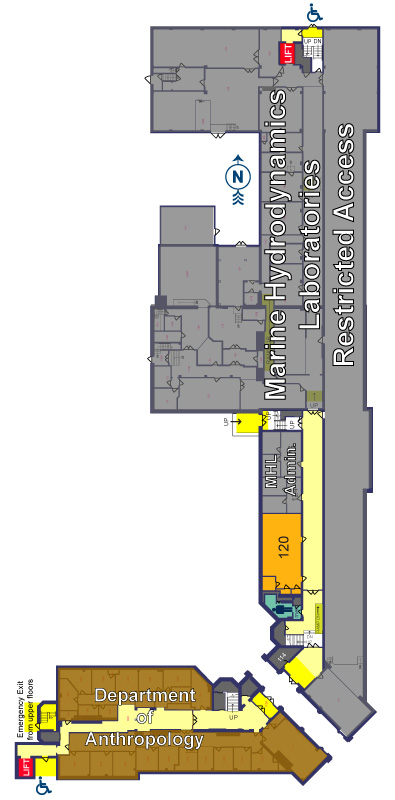
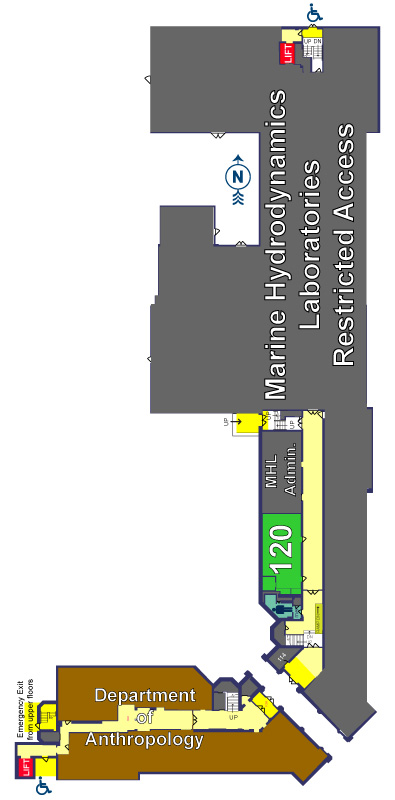
UPDATE: maps

Changed region(s): [[0.3646, 0.0312, 0.9722, 0.9375], [0.1519, 0.8125, 0.8203, 0.9688]]

diff --git a/public/maps/bsb1.html b/public/maps/bsb1.html
@@ -1,0 +1,198 @@
+<!DOCTYPE html>
+<head>
+<title>Biological Sciences Bldg</title>
+<meta http-equiv="Content-Type" content="text/html; charset=utf-8" />
+<meta name="viewport" content="width=device-width, initial-scale=1.0">
+
+<style>
+
+body{
+font-family:Arial, Helvetica, sans-serif;
+background-color:ivory;
+}
+
+#nav{
+position:absolute;
+right:0px;
+margin-top:6%;
+z-index:5;
+text-align:center;
+background-color: rgba(255,255,255,0.8);
+width:45%;
+height:auto;
+display:none;
+border: thin solid black;
+}
+
+button{
+ position:absolute;
+ right:0;
+ top:0;
+ margin:0% 0% 1% 0%;
+ font-size:large;
+}
+
+h1{
+ position:relative;
+ display:inline-block;
+ left:0;
+ top:0;
+ margin: 0% 0% 1% 0%;
+ font-size:x-large;
+ width:45%;
+}
+
+.text{
+ display:inline-block;
+ font-size:x-large;
+ font-weight:bold;
+ position:relative;
+ text-align:center;
+ padding-bottom:1%;
+}
+
+a:link{text-decoration:none;}
+a:hover{text-decoration:underline;}
+
+a.rm{position:absolute;z-index:1;}
+a.rm:focus{
+ opacity:1;
+ border: double thick cyan;
+}
+a.rm:hover{
+ opacity:1;
+ border: double thick cyan;
+}
+
+.page{
+  max-width:800px;
+  height:auto;
+  margin:auto;
+  position:relative;
+}
+
+#scrollbox{
+  position:relative;
+  width:100%;
+  max-height:800px;
+  overflow:auto;
+  border:solid black;
+  margin:auto;
+}
+#fpbox{
+  position:relative;
+  overflow:visible;
+  width:200%;
+}
+#fp{
+  position:relative;
+  z-index:0;
+  width:100%;
+}
+
+@media only screen and (max-width:800px) {
+  h1{font-size:large;}
+  .text{font-size:large;}
+}
+@media only screen and (max-height:1000px) {
+  #fpbox{width:180%;}
+}
+@media only screen and (max-height:900px) {
+  #scrollbox{height:700px;}
+  #fpbox{width:150%;}
+}
+@media only screen and (max-height:800px) {
+  #scrollbox{height:600px;}
+  #fpbox{width:120%;}
+}
+
+@media only screen and (max-width:600px){
+  h1{font-size:small;}
+  .text{font-size:small;}
+  button{font-size:small;}
+  @media only screen and (orientation:portrait){
+     #scrollbox{height:400px;}
+     #fpbox{width:250%;}
+  }
+  @media only screen and (orientation:landscape){
+    #scrollbox{height:250px;}
+    #fpbox{width:100%;}
+  }
+}
+
+
+
+
+/* padding and positions for all the links normal screen size */
+
+
+a.bsb1060{padding:10% 12%; top:24%; left:4.5%;}
+a.bsb1100{padding:5%; top:35.5%; left:34%;}
+a.bsb1110{padding:5%; top:54%; left:34%;}
+
+
+</style>
+</head>
+
+<body>
+
+<div class="page">
+
+<h1>Biological Sciences Building</h1>
+<button type="button" id="navButt" tabindex="4" alt="open navigation links">Navigate Floor Plans</button>
+
+<!--Navigation hidden until button is clicked javascript below body-->
+<div id="nav">
+<p class="text">
+There are no other floors with classrooms
+</p>
+<p class="text">
+<a href="index.html" tabindex="5" alt="to the central campus map" title="to the central campus map">
+To Central Campus Map</a>
+</p>
+<p class="text">
+<a href="/" tabindex="6" alt="to the MClassrooms homepage" title="to the MClassrooms homepage">
+To MClassrooms Homepage</a>
+</p>
+</div>
+
+<div id="scrollbox">
+
+<!-- floor plan -->
+
+<div id="fpbox">
+
+<img id="fp" src="bsb1.jpg" alt="a drawing of the biological sciences building" />
+
+<!-- links to classroom data -->
+
+<a class="rm bsb1060" href="../classrooms/BSB1060" tabindex="1" alt="to the information for room one zero six zero" title="to room 1060 information">
+</a>
+
+<!-- removed class labs from MClassrooms ----
+<a class="rm bsb1100" href="../classrooms/BSB1100" tabindex="2" alt="to the information for room one one zero zero" title="to room 1100 information">
+</a>
+<a class="rm bsb1110" href="../classrooms/BSB1110" tabindex="3" alt="to the information for room one one one zero" title="to room 1110 information">
+</a>
+-->
+
+</div>
+</div>
+
+</div>
+
+</body>
+
+<script>
+
+document.getElementById("navButt").onclick = function() {showNav()};
+
+function showNav(){
+   if (document.getElementById("nav").style.display === "block"){
+      document.getElementById("nav").style.display = "none";
+   }else{
+   document.getElementById("nav").style.display = "block";
+   }
+}
+</script>
+</html>

diff --git a/public/maps/wh1.html b/public/maps/wh1.html
@@ -11,12 +11,13 @@ a:hover{text-decoration:underline}
 <body>
 <img src="wh1.jpg" alt="Image of the first floor of West Hall" border="0" usemap="#wh1" style="margin:5px; z-index:-1"/>
 <p style="left:40px; top:460px;"><b>First Floor West Hall</b></p>
-<a style="font-family:Verdana, Geneva, Sans-serif; position:absolute; left:50px; top:510px;" href="wh2.html" title="link to 2nd floor" alt="link to 2nd floor">link to 2nd floor</a>
-<a style="font-family:Verdana, Geneva, Sans-serif; position:absolute; left:50px; top:540px;" href="wh3.html" title="link to 3rd floor" alt="link to 3rd floor">link to 3rd floor</a>
-<a style="font-family:Verdana, Geneva, Sans-serif; position:absolute; left:50px; top:570px;" href="wh4.html" title="link to 4th floor" alt="link to 4th floor">link to 4th floor</a>
-<p style="font-family:Verdana, Geneva, Sans-serif;font-size:small; position:absolute; left:55px; top:580px;">No Classrooms on 4th floor.</p>
-<a style="font-family:Verdana, Geneva, Sans-serif; position:absolute; left:40px; top:620px;" href="index.html"  alt="link campus map" title="link to campus map">link to campus map</a>
+<a style="left:50px; top:510px;" href="wh2.html" title="link to 2nd floor" alt="link to 2nd floor">link to 2nd floor</a>
+<a style="left:50px; top:540px;" href="wh3.html" title="link to 3rd floor" alt="link to 3rd floor">link to 3rd floor</a>
+<a style="left:50px; top:570px;" href="wh4.html" title="link to 4th floor" alt="link to 4th floor">link to 4th floor</a>
+<p style="font-size:small; left:55px; top:580px;">No Classrooms on 4th floor.</p>
+<a style="left:40px; top:620px;" href="index.html"  alt="link campus map" title="link to campus map">link to campus map</a>
 <map name="wh1" id="wh1">
+  <area shape="rect" coords="256,505,309,600" href="../classrooms/WH120" alt="link to data room 120" title="link to data room 120">
 </map>
 </body>
 </html>
